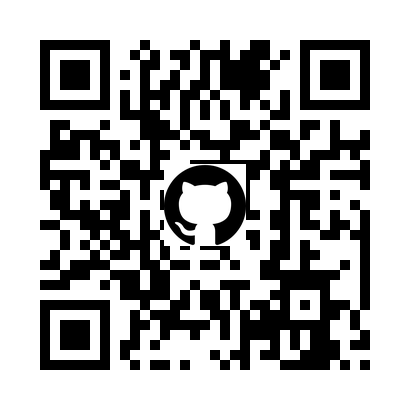
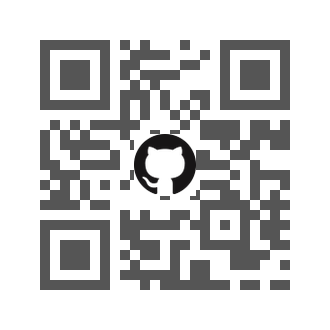
[up] updated sample.

diff --git a/README.md b/README.md
@@ -2,7 +2,7 @@
 
 Python code to generate QR code with logo inside.
 
-![Sample](img/sample.png)
+![qr_w_logo.py -o ..\img\sample.png -l GitHub-Mark-64px.png -f #555 "This is a Sample"](img/sample.png)
 
 ## Install
 
